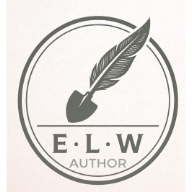
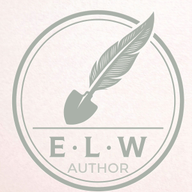
Another round of revisions

diff --git a/app/(site)/books/[slug]/page.tsx b/app/(site)/books/[slug]/page.tsx
@@ -185,18 +185,26 @@ export default async function BookPage({
 
               {retailers.length > 0 && (
                 <div className="flex flex-wrap gap-3 mb-10">
-                  {retailers.map((r, i) => (
-                    <a
-                      key={i}
-                      href={r.url}
-                      target="_blank"
-                      rel="noopener noreferrer"
-                      className="inline-flex items-center gap-1.5 border border-brand bg-transparent text-brand-light hover:bg-brand hover:text-bone font-medium px-5 py-2.5 rounded-lg transition-colors"
-                    >
-                      {r.label || r.store}
-                      <ExternalLink className="h-4 w-4" />
-                    </a>
-                  ))}
+                  {retailers.map((r, i) => {
+                    const label = r.label || r.store;
+                    const isOrder = label === 'Order Here';
+                    return (
+                      <a
+                        key={i}
+                        href={r.url}
+                        target="_blank"
+                        rel="noopener noreferrer"
+                        className={
+                          isOrder
+                            ? 'inline-flex items-center gap-1.5 rounded-lg bg-[#AAB1A9] px-8 py-3 font-semibold text-[#2A2622] transition-colors hover:bg-[#bcc3ba]'
+                            : 'inline-flex items-center gap-1.5 border border-brand bg-transparent text-brand-light hover:bg-brand hover:text-bone font-medium px-5 py-2.5 rounded-lg transition-colors'
+                        }
+                      >
+                        {label}
+                        <ExternalLink className="h-4 w-4" />
+                      </a>
+                    );
+                  })}
                 </div>
               )}
 

diff --git a/components/home/AuthorBanner.tsx b/components/home/AuthorBanner.tsx
@@ -1,0 +1,44 @@
+import Image from 'next/image';
+
+/**
+ * Homepage author banner — the dominant identity statement (jenevarose.com style).
+ *
+ * Brand target: sage green #AAB1A9 + blush ivory #FBF3F1. Both are light (~2:1
+ * against each other), so a banner in those exact hexes can't hold legible text
+ * OR show the sage logo. To read strongly as GREEN AND WHITE, this uses a deeper
+ * sage-green ground (#5e665c) with ivory text and a white seal (the transparent
+ * mark filtered to white). #AAB1A9 stays as the "Author" rule accent.
+ * The nav keeps its small mark for inner pages; this is the homepage headline.
+ */
+
+interface AuthorBannerProps {
+  name: string;
+}
+
+export function AuthorBanner({ name }: AuthorBannerProps) {
+  return (
+    <section className="w-full bg-[#5f7052]">
+      <div className="container mx-auto px-4 py-10 md:py-16">
+        <div className="flex flex-col items-center gap-6 text-center md:flex-row md:justify-center md:gap-12 md:text-left">
+          <Image
+            src="/elw-logo-transparent.png"
+            alt=""
+            width={340}
+            height={340}
+            priority
+            className="h-28 w-auto shrink-0 brightness-0 invert sm:h-32 md:h-40 lg:h-48"
+          />
+          <div>
+            <h1 className="font-serif text-5xl font-medium leading-[0.95] tracking-tight text-[#FBF3F1] sm:text-6xl lg:text-7xl">
+              {name}
+            </h1>
+            <p className="mt-4 flex items-center justify-center gap-4 text-xs font-semibold uppercase tracking-[0.5em] text-[#FBF3F1]/80 md:justify-start md:text-sm">
+              <span aria-hidden className="hidden h-px w-10 bg-[#AAB1A9] md:inline-block" />
+              Author
+            </p>
+          </div>
+        </div>
+      </div>
+    </section>
+  );
+}

diff --git a/components/home/FeaturedRelease.tsx b/components/home/FeaturedRelease.tsx
@@ -46,17 +46,25 @@ export function FeaturedRelease({ content }: FeaturedReleaseProps) {
               >
                 {content.ctaText || 'Learn more'}
               </Link>
-              {retailers.slice(0, 3).map((r, i) => (
-                <a
-                  key={i}
-                  href={r.url}
-                  target="_blank"
-                  rel="noopener noreferrer"
-                  className="inline-flex items-center border border-white/25 hover:border-white/60 text-white font-medium px-6 py-3 rounded-lg transition-colors"
-                >
-                  {r.label || r.store}
-                </a>
-              ))}
+              {retailers.slice(0, 3).map((r, i) => {
+                const label = r.label || r.store;
+                const isOrder = label === 'Order Here';
+                return (
+                  <a
+                    key={i}
+                    href={r.url}
+                    target="_blank"
+                    rel="noopener noreferrer"
+                    className={
+                      isOrder
+                        ? 'inline-flex items-center rounded-lg bg-[#AAB1A9] px-8 py-3 font-semibold text-[#2A2622] transition-colors hover:bg-[#bcc3ba]'
+                        : 'inline-flex items-center border border-white/25 hover:border-white/60 text-white font-medium px-6 py-3 rounded-lg transition-colors'
+                    }
+                  >
+                    {label}
+                  </a>
+                );
+              })}
             </div>
           </div>
 

diff --git a/components/home/Newsletter.tsx b/components/home/Newsletter.tsx
@@ -46,15 +46,13 @@ export function Newsletter({ content }: NewsletterProps) {
     <section id="newsletter" className="py-20 bg-soil-2 text-white">
       <div className="container mx-auto px-4">
         <div className="max-w-xl mx-auto text-center">
-          <span className="mx-auto mb-6 flex h-24 w-24 items-center justify-center overflow-hidden rounded-full bg-[#fbf9f6]">
-            <Image
-              src="/elw-seal.png"
-              alt=""
-              width={180}
-              height={180}
-              className="h-[88%] w-[88%] object-contain"
-            />
-          </span>
+          <Image
+            src="/elw-logo-transparent.png"
+            alt=""
+            width={220}
+            height={220}
+            className="mx-auto mb-6 h-28 w-auto object-contain"
+          />
           <h2 className="text-3xl md:text-4xl font-bold tracking-tight mb-3">
             {content?.newsletterHeadline || 'Join the mailing list'}
           </h2>

diff --git a/components/layout/Footer.tsx b/components/layout/Footer.tsx
@@ -96,15 +96,13 @@ export function Footer({ authorInfo, siteContent, hasPress = true }: FooterProps
         </div>
 
         <div className="border-t border-line mt-10 pt-8 text-center text-bone-dim">
-          <span className="mx-auto mb-5 flex h-20 w-20 items-center justify-center overflow-hidden rounded-full bg-[#fbf9f6]">
-            <Image
-              src="/elw-seal.png"
-              alt={`${authorInfo.name} seal`}
-              width={180}
-              height={180}
-              className="h-[88%] w-[88%] object-contain"
-            />
-          </span>
+          <Image
+            src="/elw-logo-transparent.png"
+            alt={`${authorInfo.name} seal`}
+            width={200}
+            height={200}
+            className="mx-auto mb-5 h-24 w-auto object-contain"
+          />
           <p>
             &copy; {currentYear} {authorInfo.name}. All rights reserved.
           </p>

diff --git a/app/(site)/page.tsx b/app/(site)/page.tsx
@@ -1,3 +1,4 @@
+import { AuthorBanner } from '@/components/home/AuthorBanner';
 import { Hero } from '@/components/home/Hero';
 import { FeaturedRelease } from '@/components/home/FeaturedRelease';
 import { Books } from '@/components/home/Books';
@@ -33,6 +34,7 @@ export default async function Home() {
           dangerouslySetInnerHTML={{ __html: JSON.stringify(faqSchema) }}
         />
       )}
+      <AuthorBanner name={authorInfo.name} />
       <Hero content={heroContent} />
       {featuredRelease && <FeaturedRelease content={featuredRelease} />}
       <Books books={books} content={siteContent} />

diff --git a/components/home/Hero.tsx b/components/home/Hero.tsx
@@ -18,9 +18,9 @@ export function Hero({ content, eyebrow }: HeroProps) {
         </p>
       )}
 
-      <h1 className="max-w-[15ch] text-balance text-5xl font-normal leading-[1.05] tracking-tight text-bone sm:text-6xl lg:text-7xl">
+      <h2 className="max-w-[15ch] text-balance text-5xl font-normal leading-[1.05] tracking-tight text-bone sm:text-6xl lg:text-7xl">
         {content.headline}
-      </h1>
+      </h2>
 
       <p className="mt-6 max-w-[44ch] text-pretty text-base leading-relaxed text-bone-dim sm:text-lg">
         {content.subheadline}

diff --git a/AUDIT-2026-08-10-round3.md b/AUDIT-2026-08-10-round3.md
@@ -1,0 +1,96 @@
+# E.L. Westbury Site — Readiness Audit #3 (Final pass, post-launch)
+
+**Date:** 2026-08-10 (third pass)
+**Context:** Live at www.elwestbury.com. Re-run after the post-launch feedback rounds: olive **softened** (outline buttons), homepage **genre grouping**, new **tagline**, circular **seal** medallion, Buriers intro, FAQ edit (no em dash), UK publicity, /books order fix.
+**Method:** production build, live-site verification, live Sanity query, WCAG math, static analysis.
+**Verified:** git tree clean; production confirmed serving today's code (grouped /books + outline buttons + new tagline + seal + UK publicity all live).
+
+Legend: **PASS** / **PARTIAL** / **GAP** / **BLOCKER**
+
+---
+
+## TL;DR
+
+The site is **effectively done from a code/content standpoint** and everything from the three feedback rounds is live. What's left is a **short, purely-operational list**: finish the Resend hookup (in progress), add GA4, and wire the revalidation webhook. No code blockers remain.
+
+**Movement since round 2:** red→olive softened to outline; homepage grouped; tagline/subhead/FAQ/UK-publicity/seal all shipped; Resend key now present (was the #1 blocker — now mid-setup).
+
+---
+
+## 1. Completeness & visibility — PASS
+
+| Area | Status | Note |
+|---|---|---|
+| Hero + tagline | **PASS** | Live: "Dark secrets. Complicated love." / "And everything buried in between." (drives all meta/OG). |
+| Books — grouped + ordered | **PASS** | Homepage **and** /books show **Thrillers** (Drowning → Agreeable Avery) / **Romance** (Heart Roots). New subhead live. |
+| FAQ "What is a Burier?" | **PASS** | Rewritten; **no em dash** (verified). |
+| Contact — representation | **PASS** | UK Publicity (Orion Books) live; Gmail still absent. |
+| Book club / events | **PASS** | 8 approved photos; 1 upcoming event. |
+| Press (0) / Praise (0) | **PASS** | Press 404s + out of nav/sitemap (verified live); Praise section hides. |
+| Seal | **PASS** | Fixed to a clean circular medallion (footer + newsletter stamp); full ring renders, no clip/box. |
+| Images / headings | **PASS** | All `next/image`; one `<h1>` per page. |
+
+---
+
+## 2. Performance — PASS
+
+All content pages **Static/SSG**, only `/api/*` + `/studio` dynamic. Clean build (~27s, 22 pages). Fonts self-hosted, images optimized, dead deps already removed. *(Exact LCP/CLS still un-measured — a Lighthouse pass on the live site is the only outstanding perf item, and it's optional.)*
+
+---
+
+## 3. SEO — PASS
+
+Canonical/OG on **www** (live), new tagline in title/meta, Person/Book/FAQ JSON-LD, sitemap (has /contact, excludes empty /press), robots correct, indexable (200).
+
+---
+
+## 4. Accessibility — PASS (one minor note)
+
+WCAG AA on the dark theme:
+
+| Element | Ratio | Verdict |
+|---|---|---|
+| body / secondary text | 15.0 / 10.0:1 | **PASS** |
+| outline-button label + links (brand-light on soil) | 6.96:1 | **PASS** |
+| popup button (bone on olive) | 5.44:1 | **PASS** |
+| seal medallion vs ground | 17.7:1 | **PASS** (bright — see note) |
+| **outline-button border** (olive on soil) | **2.77:1** | slightly under the 3:1 UI guideline |
+
+- **Minor:** the softened buttons' olive **border** is 2.77:1 — just below the 3:1 for UI boundaries. The buttons are still clearly identifiable (olive-light label + shape + hover-fill), so it's not a real blocker, but if you want it airtight, switch the border to `brand-light` (would jump to ~7:1). Optional.
+- Reduced motion honored; alt coverage good; red fully gone (no wine/red anywhere).
+- Seal medallion is a warm near-white (`#fbf9f6`) — reads as a bright "stamp." Fine, but if Erika wants it toned to the site's bone/ivory, that needs a recolored seal export.
+
+---
+
+## 5. Integration readiness — Resend in progress; 2 gaps
+
+| Integration | Status | Note |
+|---|---|---|
+| **Contact form (Resend)** | **PARTIAL — in progress** | `RESEND_API_KEY` now set locally; DNS records being added on Vercel DNS (confirmed Vercel is the authoritative host). **Remaining:** domain shows Verified in Resend → add the key to **Vercel Production** → **redeploy**. Then the live form sends. (Was the #1 blocker in rounds 1–2.) |
+| **Newsletter (Flodesk)** | **PASS** | Working (verified by a real subscription). `NEWSLETTER_LIST_ID` empty = no segment (optional). |
+| **Analytics (GA4)** | **GAP** | `NEXT_PUBLIC_GA_MEASUREMENT_ID` empty → no pageview tracking on a live site. |
+| **Revalidation webhook** | **GAP** | `SANITY_REVALIDATE_SECRET` empty + no webhook → **Erika's Studio edits won't appear live until a redeploy.** Route exists; needs the secret + a Sanity webhook. |
+| Sanity read token | **MINOR** | Empty → draft-mode/visual-editing off; public content unaffected. |
+
+---
+
+## Remaining punch list (short)
+
+### To finish launch
+1. **Complete Resend** — verify domain → add `RESEND_API_KEY` to **Vercel Production** → redeploy. (Contact form goes live.)
+2. **Add GA4** — `NEXT_PUBLIC_GA_MEASUREMENT_ID`.
+3. **Revalidation webhook** — `SANITY_REVALIDATE_SECRET` + Sanity webhook → `/api/revalidate`, so her edits publish without a manual redeploy.
+
+### Optional polish
+4. Outline-button **border** → `brand-light` for a clean 3:1.
+5. Tone the **seal medallion** to bone/ivory (or recolor the mark to brand olive) if Erika wants.
+6. Trim **": A Novel"** from the Drowning title.
+7. Set a **Flodesk segment** (`NEWSLETTER_LIST_ID`).
+8. **Lighthouse** pass for hard LCP/CLS.
+
+---
+
+## Resolved across all three audits
+Full de-template + de-red; olive palette (softened); Fraunces/Karla; canonical www; new tagline through meta/OG; genre grouping (home + /books) with correct order; Press/Praise auto-hide; `/events` h1; `/contact` in sitemap; lint (flat config); dead-dep cleanup; initials signature; EL-mark nav; circular seal; UK publicity; FAQ/bio/copy edits; Flodesk live; bigger hero/mark.
+
+*Final review pass — no code changes made here. Git clean, production current.*
